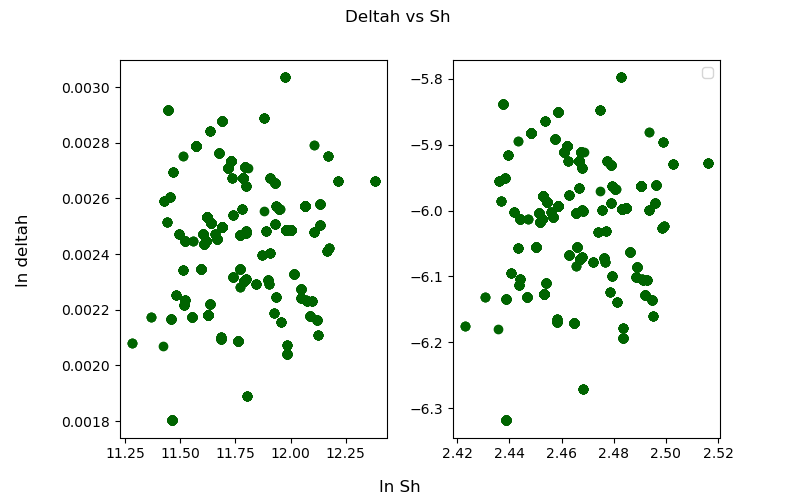
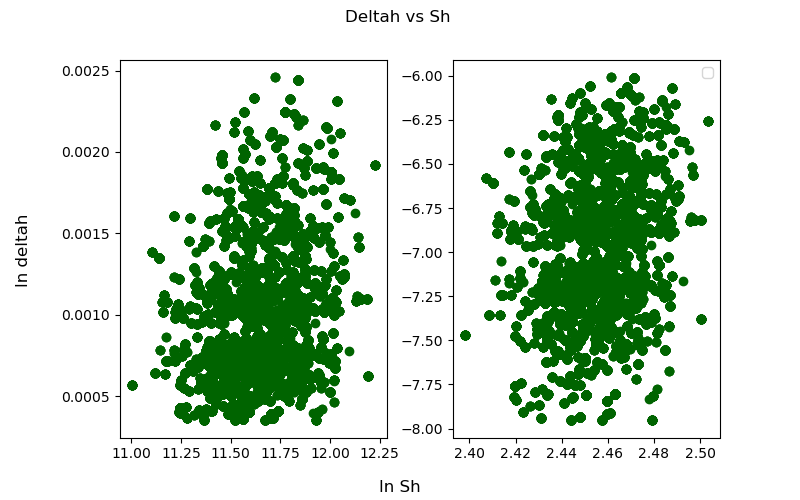
pro un

diff --git a/src/model_spiked_pro_batch.py b/src/model_spiked_pro_batch.py
@@ -133,6 +133,7 @@ k1_prior=ODElib.parameter(stats_gen=scipy.stats.lognorm,hyperparameters={'s':pw,
 k2_prior=ODElib.parameter(stats_gen=scipy.stats.lognorm,hyperparameters={'s':pw,'scale':0.6})
 kdam_prior = ODElib.parameter(stats_gen=scipy.stats.lognorm,hyperparameters={'s':pw,'scale':0.2})
 phi_prior = ODElib.parameter(stats_gen=scipy.stats.lognorm,hyperparameters={'s':pw,'scale':0.06})
+Sh_prior=ODElib.parameter(stats_gen=scipy.stats.lognorm, hyperparameters={'s':pw,'scale':2})
 #setting state variiable  prior guess
 P0_prior=ODElib.parameter(stats_gen=scipy.stats.lognorm, hyperparameters={'s':pw/1,'scale':1e+6})
 N0_prior=ODElib.parameter(stats_gen=scipy.stats.lognorm, hyperparameters={'s':pw/1,'scale':2e+6})
@@ -149,13 +150,14 @@ H0_mean = inits4['H0'][0]
 #####################################################
 def get_model(df):
     M = ODElib.ModelFramework(ODE=mono_4H,
-                          parameter_names=['k1','k2','kdam','phi','P0','N0','H0'],
+                          parameter_names=['k1','k2','kdam','phi','Sh','P0','N0','H0'],
                           state_names = snames,
                           dataframe=df,
                           k1 = k1_prior.copy(),
                           k2 = k2_prior.copy(),
                           kdam = kdam_prior.copy(),
                           phi = phi_prior.copy(),
+                          Sh = Sh_prior.copy(),
                           P0 = P0_prior.copy(),
                           N0  = N0_prior.copy(),
                           H0  = H0_prior.copy(),
@@ -167,12 +169,12 @@ def get_model(df):
     return M
 
 def mono_4H(y,t,params): #no kdam or phi here (or make 0)
-    k1,k2, kdam, phi = params[0], params[1], params[2],params[3]
+    k1,k2, kdam, phi, Sh = params[0], params[1], params[2],params[3], params[4]
     P,N,H = max(y[0],0),max(y[1],0),y[2]
     ksp=k2/k1 #calculating model param ks in loop but k1 and k2 are fed separately by odelib
     dPdt = (k2 * N /( (ksp) + N) )*P - kdam*P*H    
     dNdt =  - (k2 * N /( (ksp) + N) )*P
-    dHdt = - phi*P*H
+    dHdt = Sh- phi*P*H
     return [dPdt,dNdt,dHdt]
 
 #df0.loc[:,'log_abundance'] = np.log(10**df0.log_abundance)
@@ -182,7 +184,7 @@ a4 = get_model(df4)
 
 #broken here!!!!!!!!!!
 # do fitting
-posteriors4 = a4.MCMC(chain_inits=inits4,iterations_per_chain=nits,cpu_cores=1,static_parameters =set(['k1','k2','N0']),print_report=True) #, )
+posteriors4 = a4.MCMC(chain_inits=inits4,iterations_per_chain=nits,cpu_cores=1,static_parameters =set(['k1','k2','Sh','N0']),print_report=True) #, )
 #posteriors1 = a1.MetropolisHastings(chain_inits=inits0,iterations_per_chain=nits,burnin = 500,cpu_cores=1,static_parameters=set(['Qnp']))
 
 # run model with optimal params
@@ -201,6 +203,7 @@ fig3.suptitle('Pro in 400 H Model') #setting main title of fig
 fig3.subplots_adjust(right=0.85, wspace = 0.25, hspace = 0.30)
 
 ax3[0].semilogy()
+ax3[1].semilogy()
 ax3[0].set_title('Pro dynamics ')
 ax3[1].set_title('HOOH dynamics')
 
@@ -235,13 +238,14 @@ plt.show()
 #########################################################
 
 # set up graph
-fig4,ax4 = plt.subplots(1,4,figsize=[12,8])
+fig4,ax4 = plt.subplots(1,3,figsize=[9,7])
 #set titles and config graph 
 fig4.suptitle('Pro Monoculture parameters in 400 HOOH ')
 ax4[0].set_title('Pro Model Dynamic output')
 ax4[1].set_title('P0')
 ax4[2].set_title('kdam')
-ax4[3].set_title('phi')
+
+fig4.subplots_adjust(right=0.85, wspace = 0.25, hspace = 0.20)
 
 ax4[2].set_xlabel('Parameter Value Frequency', fontsize = 16)
 #make legends
@@ -256,19 +260,13 @@ ax4[0].plot(df4[df4['organism']=='P']['time'], df4[df4['organism']=='P']['abunda
 ax4[0].plot(mod4.time,mod4['P'],color='r',lw=1.5,label=' Model P best fit')
 a4.plot_uncertainty(ax4[0],posteriors4,'P',100)
 
-#ax0.plot(mod4.time,mod4['P'],color='r',lw=1.5,label=' Model P best fit')
-#a4.plot_uncertainty(a4,posteriors4,'P',10)
-
-
-
 # plot histograms of parameter search results 
 ax4[1].hist(posteriors4.P0)
 ax4[2].hist(posteriors4.kdam)
-ax4[3].hist(posteriors4.phi)
 
 #show full graph 
 plt.show()
-fig4.savefig('../figures/pro_odelib4_params')
+fig4.savefig('../figures/pro_odelib4_Pparams')
 
 
 #########################################################
@@ -276,32 +274,31 @@ fig4.savefig('../figures/pro_odelib4_params')
 #########################################################
 
 #HOOH dynamics 
-fig5,ax5 = plt.subplots(1,4,figsize=[12,8])
+fig5,ax5 = plt.subplots(1,3,figsize=[9,7])
 fig5.suptitle('HOOH parmaters ')
 ax5[0].set_title('HOOH Model Dynamic output')
 ax5[1].set_title('H0')
-ax5[2].set_title('kdam')
-ax5[3].set_title('phi')
+ax5[2].set_title('phi')
 
+fig5.subplots_adjust(right=0.85, wspace = 0.25, hspace = 0.20)
 ax5[2].set_xlabel('Parameter Value Frequency', fontsize = 16)
 #make legends
 l5 = ax5[0].legend(loc = 'upper left')
 l5.draw_frame(False)
 
 ax5[0].plot(df4[df4['organism']=='H']['time'], df4[df4['organism']=='H']['abundance'], marker='o',label = 'H data ')
-ax5[0].plot(mod4.time,mod4['H'],color='r',lw=1.5,label=' Model P best fit')
+ax5[0].plot(mod4.time,mod4['H'],color='r',lw=1.5,label=' Model H best fit')
 a4.plot_uncertainty(ax5[0],posteriors4,'H',100)
 
 
 # plot histograms of parameter search results 
 ax5[1].hist(posteriors4.H0)
 ax5[2].hist(posteriors4.phi)
-ax5[3].hist(posteriors4.kdam)
 
 
 #show full graph 
 plt.show()
-
+fig5.savefig('../figures/pro_odelib4_Hparams')
 
 
 pframe = pd.DataFrame(a4.get_parameters(),columns=a4.get_pnames())

diff --git a/src/model_pro_batch.py b/src/model_pro_batch.py
@@ -146,6 +146,13 @@ def mono_0H(y,t,params): #no kdam or phi here (or make 0)
     dNdt =  - (k2 * N /( (ksp) + N) )*P
     return [dPdt,dNdt]
 
+#find closest time 
+def get_residuals(self):
+    mod = self.integrate(predict_obs=True)
+    res = (mod.abundance - self.df.abundance)   #this is not same species 
+    mod['res'] = res
+    return(mod)
+
 #df0.loc[:,'log_abundance'] = np.log(10**df0.log_abundance)
 
 # get_models
@@ -159,26 +166,28 @@ posteriors0 = a0.MCMC(chain_inits=inits0,iterations_per_chain=nits,cpu_cores=1,p
 # run model with optimal params
 mod0 = a0.integrate()
 
+a0res = get_residuals(a0)  #is this using the best fit or just a first run???
+
 #####################################################
 # graphing model vs data in 0 H and associated error
 #####################################################
 
 ###### fig set up
-fig3, (ax0,ax1)= plt.subplots(1,2,figsize = (9,7)) #fig creationg of 1 by 2
+fig3, (ax0,ax1)= plt.subplots(1,2,figsize = (6,5)) #fig creationg of 1 by 2
 fig3.suptitle('Pro in 0 H Model') #setting main title of fig
 
 ####### fig config and naming 
 
-fig3.subplots_adjust(right=0.85, wspace = 0.25, hspace = 0.30)
+fig3.subplots_adjust(right=0.9, wspace = 0.40, hspace = 0.20)
 
 ax0.semilogy()
 ax0.set_title('Pro dynamics ')
-ax1.set_title('Model comparison to data')
+ax1.set_title('Model residuals')
 
-ax0.set_xlabel('days')
-ax0.set_ylabel('cell concentration')
-ax1.set_ylabel('Final P value')
-ax1.set_xlabel('iteration number ')
+ax0.set_xlabel('Time (days)')
+ax0.set_ylabel('Cells (ml-1)')
+ax1.set_ylabel('Data P value')
+ax1.set_xlabel('Residual')
 
 l3 = ax0.legend(loc = 'lower right')
 l3.draw_frame(False)
@@ -191,9 +200,9 @@ ax0.errorbar(df0[df0['organism']== 'P']['time'],df0[df0['organism']== 'P']['avg2
 
 ax0.plot(mod0.time,mod0['P'],c='r',lw=1.5,label=' model best fit')
 
-a0.plot_uncertainty(ax0,posteriors0,'P',100)
+a0.plot_uncertainty(ax0,posteriors0,'P',1000)
 
-#ax1.scatter(a0res['res'], a0res['abundance'],label = '0H case')
+ax1.scatter(a0res['res'], a0res['abundance'],label = '0H case')
 #printing off graph
 plt.show()
 
@@ -205,7 +214,7 @@ plt.show()
 #########################################################
 
 # set up graph
-fig4,ax4 = plt.subplots(1,5,figsize=[20,7])
+fig4,ax4 = plt.subplots(1,5,figsize=[10,8])
 #set titles and config graph 
 fig4.suptitle('Monoculture parameters in 0 HOOH ')
 ax4[0].set_title('Model Dynamic output')
@@ -219,7 +228,7 @@ ax4[2].set_xlabel('Parameter Value Frequency', fontsize = 16)
 l4 = ax4[0].legend(loc = 'upper left')
 l4.draw_frame(False)
 #shift fig subplots
-fig4.subplots_adjust(right=0.90, wspace = 0.25, hspace = 0.30)
+fig4.subplots_adjust(right=0.90, wspace = 0.30, hspace = 0.20)
 
 
 #graph data, model, and uncertainty 
